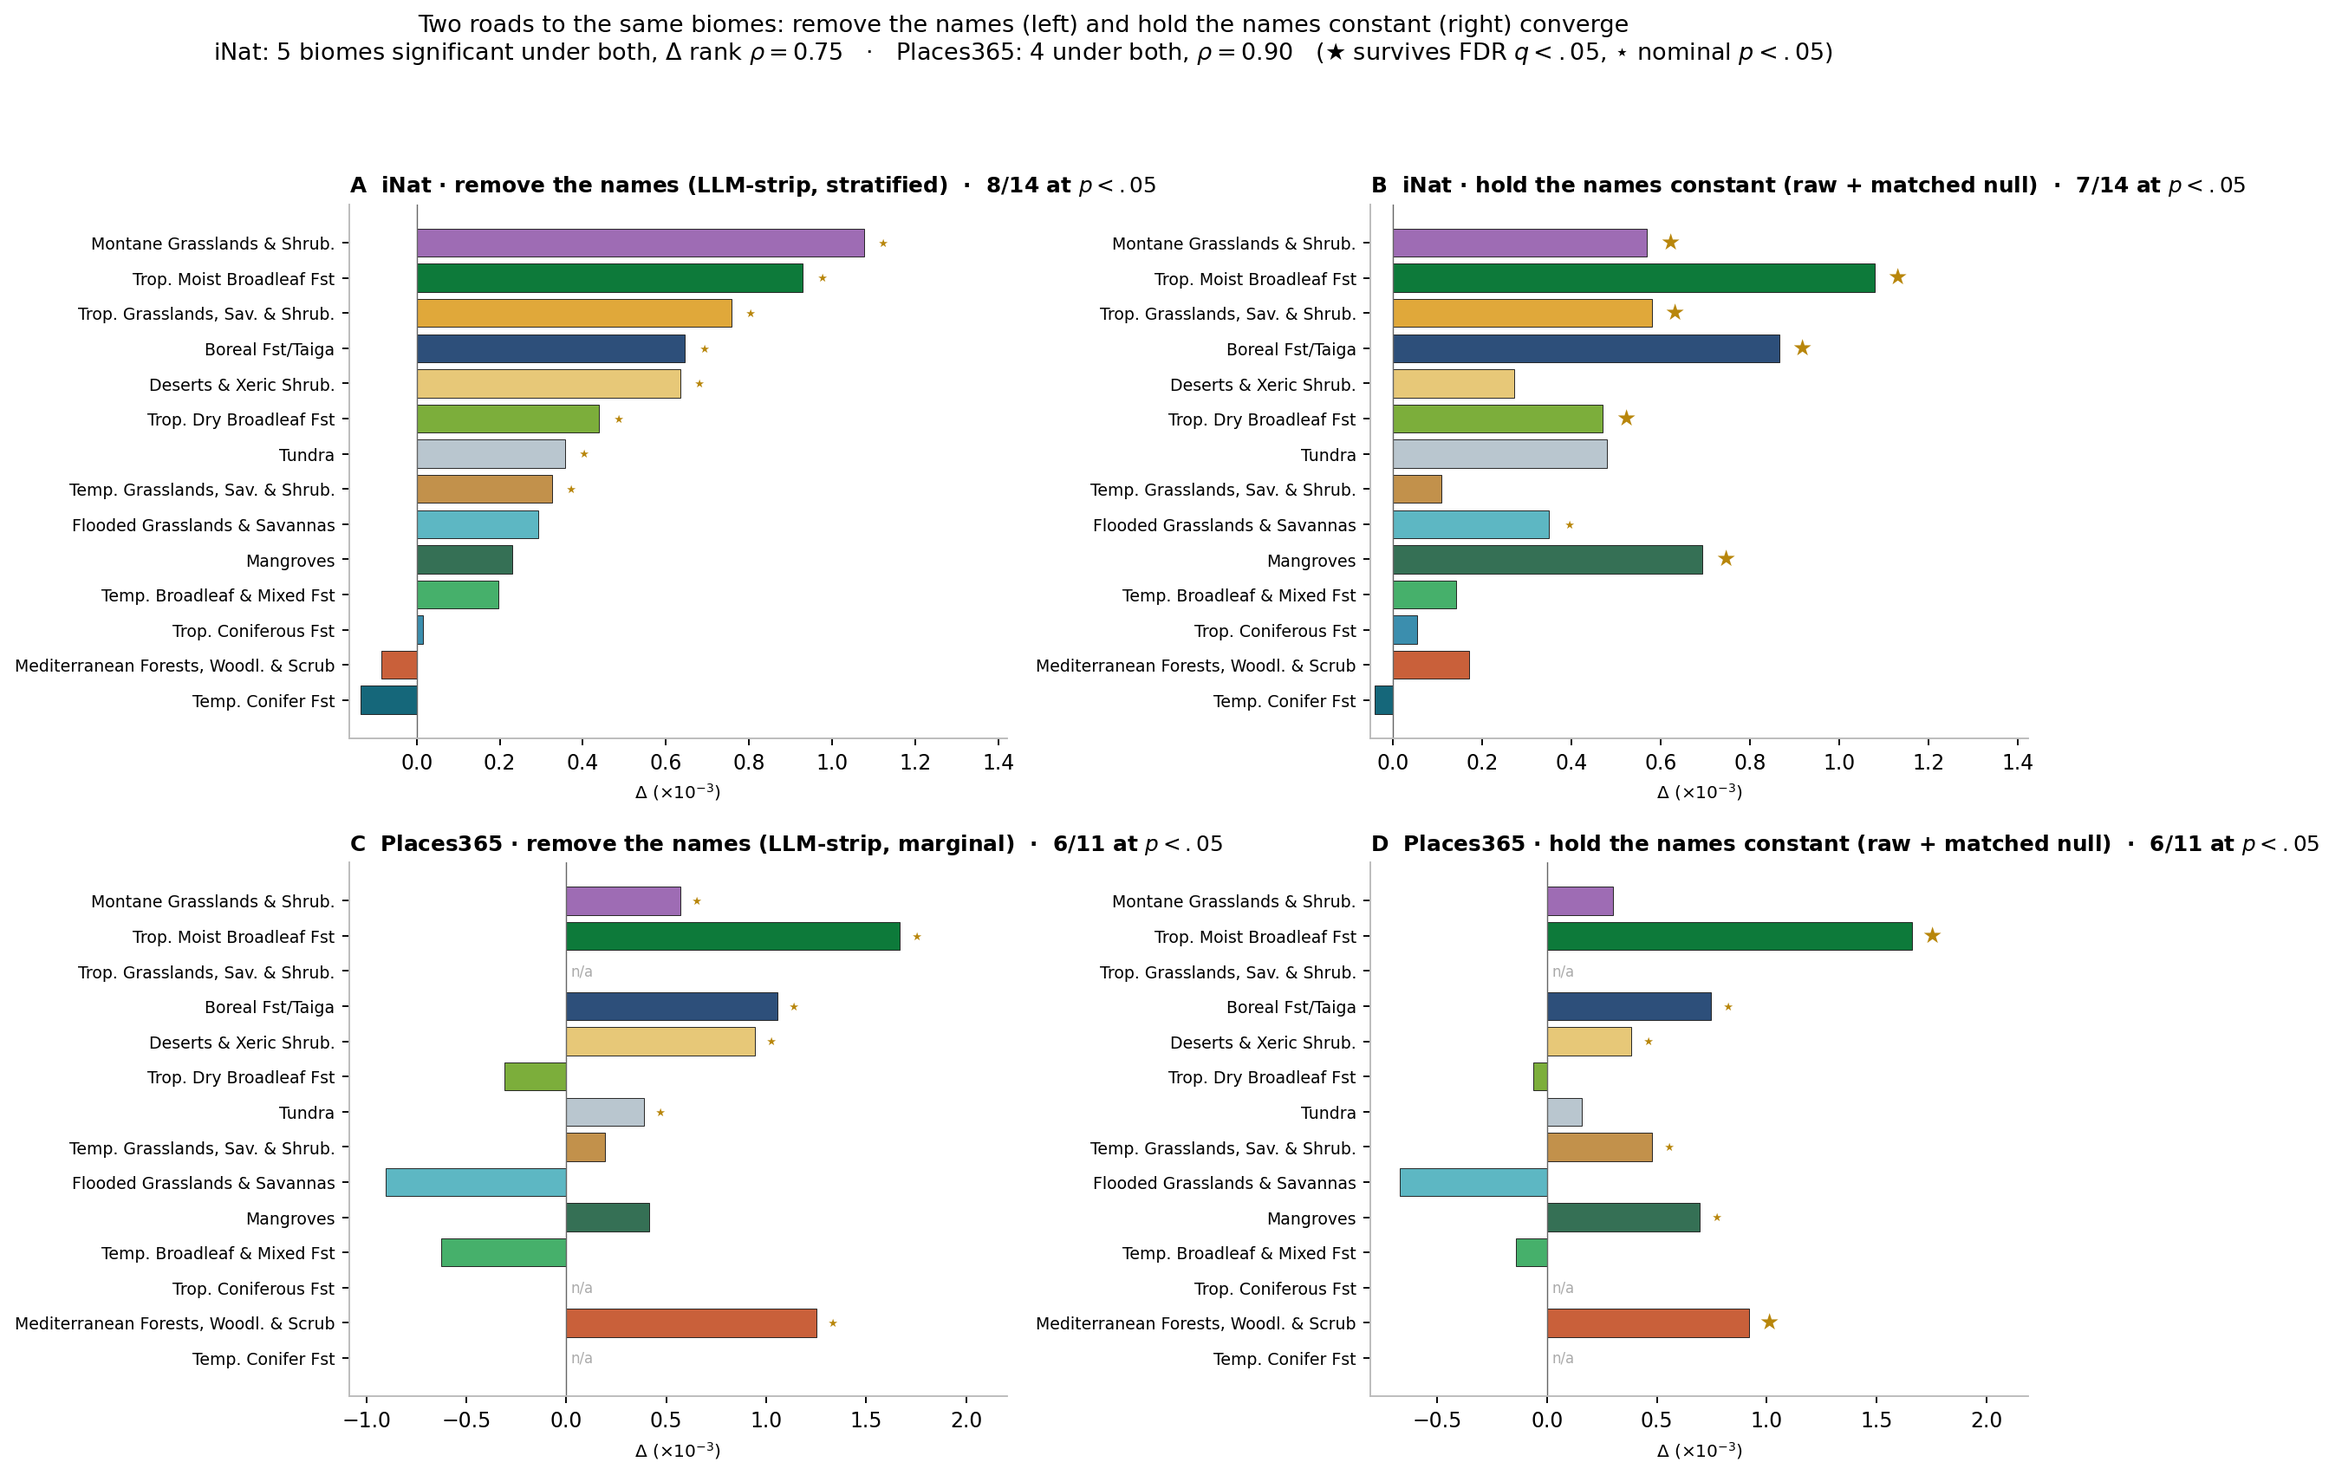
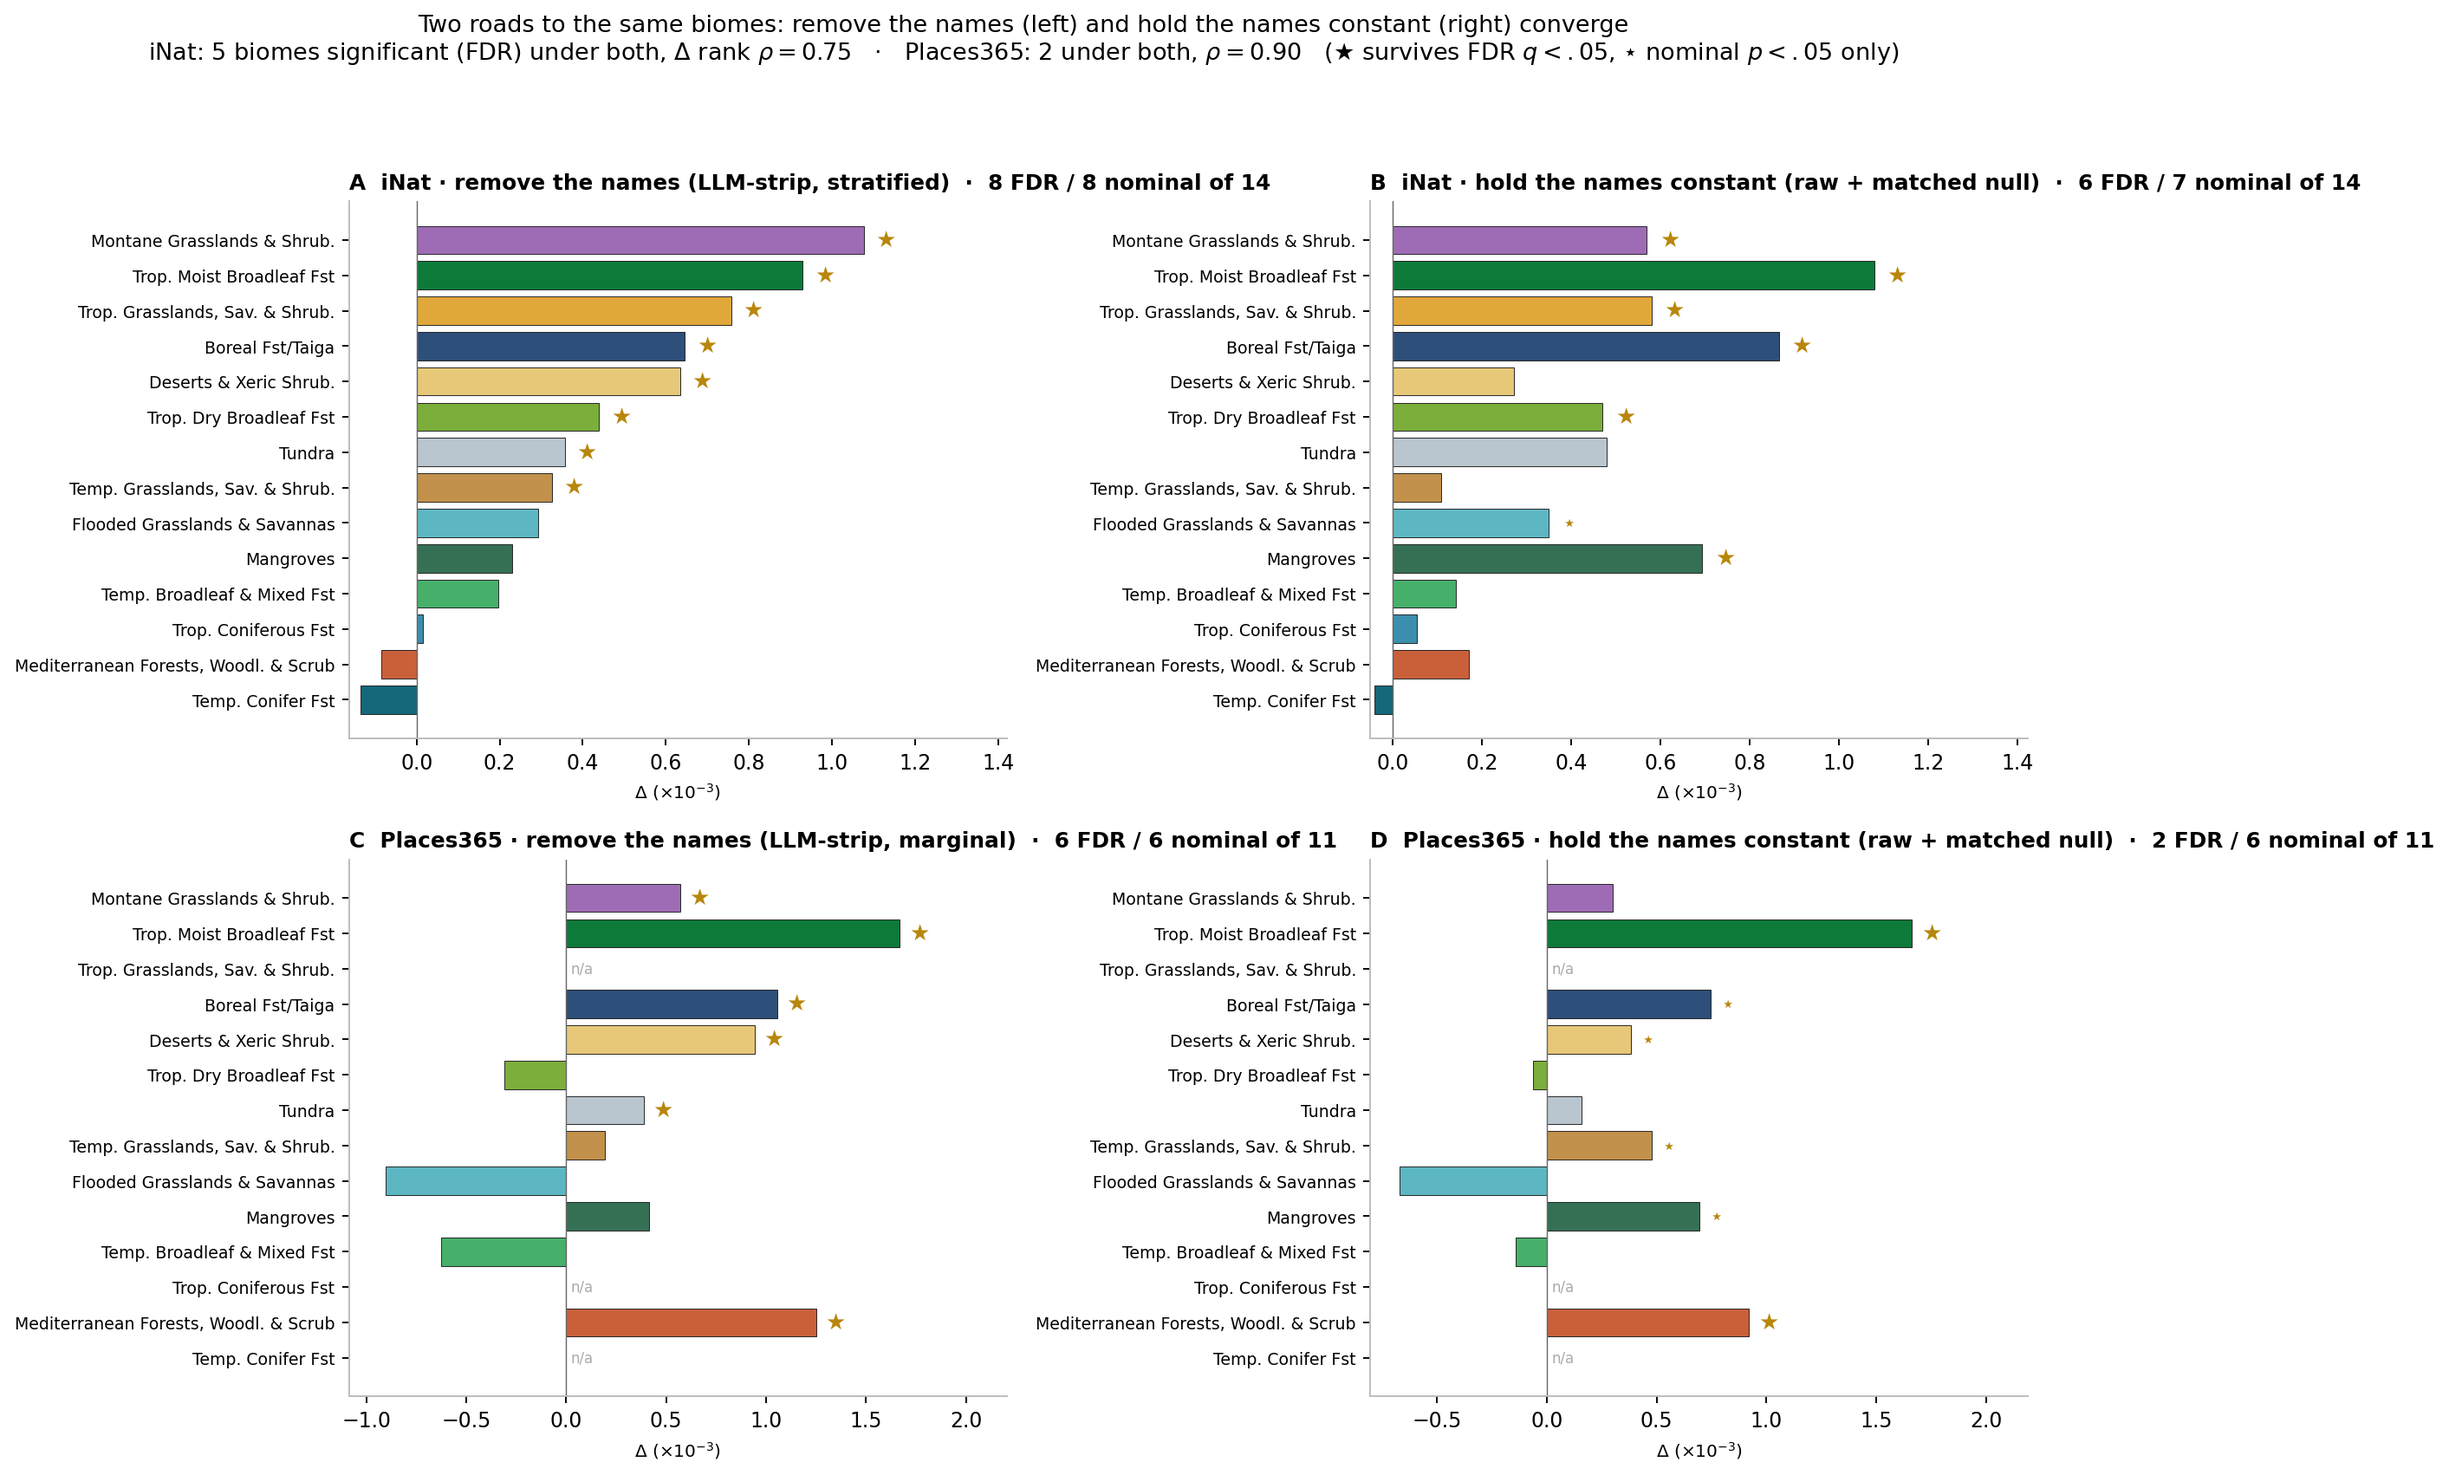
@ Reconcile no-LLM figure counts (FDR everywhere; transparent labels)
The 5/6/7 discrepancy across figures was threshold + display-floor, one
borderline biome:
- 7 = nominal p (corrected rng/smoothing flips Flooded Grasslands, p=0.039)
- 6 = FDR q<.05 (Flooded drops, q=0.078) -- the robust core
- 5 = mapped (Mangroves 4 trad + Flooded 9 trad below the 10-tradition floor)

Fix: Fig 2 now shows FDR (bigstar) and nominal (star) on ALL panels incl
LLM-strip (which survives FDR 8/14, contra the earlier display) and titles
report "N FDR / M nominal". Fig 3 titles report "X of Y FDR-significant
mapped" with the sparse-biome note. Convergence counts now FDR-based.

@

diff --git a/src/figures/fig2_nolll.py b/src/figures/fig2_nolll.py
@@ -18,6 +18,13 @@ OUT = ROOT / "paper/figures/fig2_nolll.png"
 from make_phase2_figures import short_biome, biome_color
 
 
+def bh(p):
+    p = np.asarray(p, float); n = len(p); o = np.argsort(p); q = np.empty(n); prev = 1.0
+    for r in range(n - 1, -1, -1):
+        i = o[r]; prev = min(prev, p[i] * n / (r + 1)); q[i] = prev
+    return q
+
+
 def load():
     li = pd.read_csv(EMB / "inat_basic/v3_biome_test_sentpool_resid.csv")
     li = li[["biome", "delta_strat", "p_strat"]].rename(
@@ -30,10 +37,11 @@ def load():
     mp = pd.read_csv(LAD / "nolll_perbiome_p365.csv")[
         ["biome", "delta_raw", "p_matched", "q_matched"]].rename(
         columns={"delta_raw": "delta", "p_matched": "p", "q_matched": "q"})
+    li["q"] = bh(li["p"].values); lp["q"] = bh(lp["p"].values)   # FDR on the LLM panels too
     return li, lp, mi, mp
 
 
-def panel(ax, df, order, title, has_fdr):
+def panel(ax, df, order, title):
     df = df.set_index("biome").reindex(order)
     y = np.arange(len(order))[::-1]
     vals = df["delta"].values * 1000
@@ -45,10 +53,11 @@ def panel(ax, df, order, title, has_fdr):
         if np.isnan(v):
             ax.text(0.01 * xmax, y[i], "n/a", va="center", fontsize=7, color="#aaa")
             continue
-        sig = df["p"].values[i] < 0.05
         mk = ""
-        if sig:
-            mk = "$\\bigstar$" if (has_fdr and df["q"].values[i] < 0.05) else "$\\star$"
+        if df["q"].values[i] < 0.05:
+            mk = "$\\bigstar$"            # survives FDR q<.05
+        elif df["p"].values[i] < 0.05:
+            mk = "$\\star$"               # nominal p<.05 only
         if mk:
             x = v + 0.02 * xmax if v >= 0 else v - 0.02 * xmax
             ax.text(x, y[i], mk, va="center", ha="left" if v >= 0 else "right",
@@ -56,8 +65,9 @@ def panel(ax, df, order, title, has_fdr):
     ax.axvline(0, color="#666", lw=0.6)
     ax.set_yticks(y); ax.set_yticklabels([short_biome(b) for b in order], fontsize=8)
     ax.set_xlim(min(0, np.nanmin(vals) * 1.2), xmax)
-    n = int((~np.isnan(vals)).sum()); ns = int((df["p"] < 0.05).sum())
-    ax.set_title(f"{title}  ·  {ns}/{n} at $p<.05$", fontsize=10.5,
+    n = int((~np.isnan(vals)).sum()); nq = int((df["q"] < 0.05).sum())
+    ns = int((df["p"] < 0.05).sum())
+    ax.set_title(f"{title}  ·  {nq} FDR / {ns} nominal of {n}", fontsize=10.5,
                  fontweight="bold", loc="left")
     ax.set_xlabel(r"$\Delta$ ($\times 10^{-3}$)", fontsize=8.5)
     for s in ax.spines.values():
@@ -71,15 +81,15 @@ def main():
 
     fig, axes = plt.subplots(2, 2, figsize=(14, 10))
     fig.patch.set_facecolor("white")
-    panel(axes[0, 0], li, order, "A  iNat · remove the names (LLM-strip, stratified)", False)
-    panel(axes[0, 1], mi, order, "B  iNat · hold the names constant (raw + matched null)", True)
-    panel(axes[1, 0], lp, order, "C  Places365 · remove the names (LLM-strip, marginal)", False)
-    panel(axes[1, 1], mp, order, "D  Places365 · hold the names constant (raw + matched null)", True)
+    panel(axes[0, 0], li, order, "A  iNat · remove the names (LLM-strip, stratified)")
+    panel(axes[0, 1], mi, order, "B  iNat · hold the names constant (raw + matched null)")
+    panel(axes[1, 0], lp, order, "C  Places365 · remove the names (LLM-strip, marginal)")
+    panel(axes[1, 1], mp, order, "D  Places365 · hold the names constant (raw + matched null)")
 
-    # convergence numbers
+    # convergence numbers (FDR q<.05)
     def agree(llm, mat):
-        a = llm.set_index("biome")["p"] < 0.05
-        b = mat.set_index("biome")["p"] < 0.05
+        a = llm.set_index("biome")["q"] < 0.05
+        b = mat.set_index("biome")["q"] < 0.05
         common = a.index.intersection(b.index)
         both = int((a[common] & b[common]).sum())
         m = pd.concat([llm.set_index("biome")["delta"], mat.set_index("biome")["delta"]],
@@ -89,9 +99,9 @@ def main():
     bi, ri = agree(li, mi); bp, rp = agree(lp, mp)
     fig.suptitle("Two roads to the same biomes: remove the names (left) and hold the names "
                  "constant (right) converge\n"
-                 f"iNat: {bi} biomes significant under both, $\\Delta$ rank $\\rho={ri:.2f}$   ·   "
+                 f"iNat: {bi} biomes significant (FDR) under both, $\\Delta$ rank $\\rho={ri:.2f}$   ·   "
                  f"Places365: {bp} under both, $\\rho={rp:.2f}$   "
-                 r"($\bigstar$ survives FDR $q<.05$, $\star$ nominal $p<.05$)",
+                 r"($\bigstar$ survives FDR $q<.05$, $\star$ nominal $p<.05$ only)",
                  fontsize=11.5, y=1.0)
     fig.tight_layout(rect=[0, 0, 1, 0.96])
     fig.savefig(OUT, dpi=170, facecolor="white", bbox_inches="tight")

diff --git a/src/figures/fig3_nolll.py b/src/figures/fig3_nolll.py
@@ -21,8 +21,17 @@ MIN_TRAD = 10
 
 def main():
     import geopandas as gpd
-    llm = pd.read_csv(EMB / "inat_basic/v3_biome_test_sentpool_resid.csv").set_index("biome")
+
+    def bh(p):
+        p = np.asarray(p, float); n = len(p); o = np.argsort(p); q = np.empty(n); prev = 1.0
+        for r in range(n - 1, -1, -1):
+            i = o[r]; prev = min(prev, p[i] * n / (r + 1)); q[i] = prev
+        return q
+
+    llm = pd.read_csv(EMB / "inat_basic/v3_biome_test_sentpool_resid.csv")
+    llm["q"] = bh(llm["p_strat"].values); llm = llm.set_index("biome")
     mat = pd.read_csv(LAD / "nolll_perbiome_inat.csv").set_index("biome")
+    mat["q"] = mat["q_matched"]
     trad = pd.read_parquet(MAP / "traditions.parquet")
     n_trad = trad.groupby("biome_wwf").size().to_dict()
     eco = gpd.read_file(ROOT / "raw_downloads/Ecoregions2017/Ecoregions2017.shp").to_crs("EPSG:4326")
@@ -36,17 +45,17 @@ def main():
     for ax in (axA, axB):
         ax.set_facecolor("#f4f6f8")
 
-    def render(ax, df, dcol, pcol, title):
-        shown = [b for b in df.index if n_trad.get(b, 0) >= MIN_TRAD
-                 and df.loc[b, dcol] > 0 and df.loc[b, pcol] < 0.05]
-        vmax = float(df.loc[shown, dcol].max()) * 1.05 if shown else 1.0
+    def render(ax, df, dcol, title):
+        sig = [b for b in df.index if df.loc[b, "q"] < 0.05 and df.loc[b, dcol] > 0]
+        mapped = [b for b in sig if n_trad.get(b, 0) >= MIN_TRAD]
+        vmax = float(df.loc[mapped, dcol].max()) * 1.05 if mapped else 1.0
         norm = mcolors.Normalize(0, vmax)
         for bname, grp in eco.groupby("BIOME_NAME"):
             if bname not in df.index or n_trad.get(bname, 0) < MIN_TRAD:
                 color = GREY
             elif df.loc[bname, dcol] < 0:
                 color = NEG
-            elif df.loc[bname, pcol] < 0.05:
+            elif df.loc[bname, "q"] < 0.05:
                 color = tuple(cmap(norm(df.loc[bname, dcol])))
             else:
                 color = GREY
@@ -57,10 +66,12 @@ def main():
         ax.set_xticks([]); ax.set_yticks([])
         for sp in ax.spines.values():
             sp.set_color("#ccc")
-        ax.set_title(f"{title}  ({len(shown)} biomes $p<.05$)", fontsize=11.5, pad=6)
+        extra = f"; {len(sig) - len(mapped)} more sig. but $<10$ traditions" if len(sig) > len(mapped) else ""
+        ax.set_title(f"{title}  ({len(mapped)} of {len(sig)} FDR-significant mapped{extra})",
+                     fontsize=10.8, pad=6)
 
-    render(axA, llm, "delta_strat", "p_strat", "A. Remove the names (LLM-strip, stratified)")
-    render(axB, mat, "delta_raw", "p_matched", "B. Hold the names constant (raw + matched null)")
+    render(axA, llm, "delta_strat", "A. Remove the names (LLM-strip, stratified)")
+    render(axB, mat, "delta_raw", "B. Hold the names constant (raw + matched null)")
 
     from matplotlib.patches import Patch
     fig.legend(handles=[Patch(facecolor="#fdae61", label="aligned (warmer = stronger, within panel)"),
